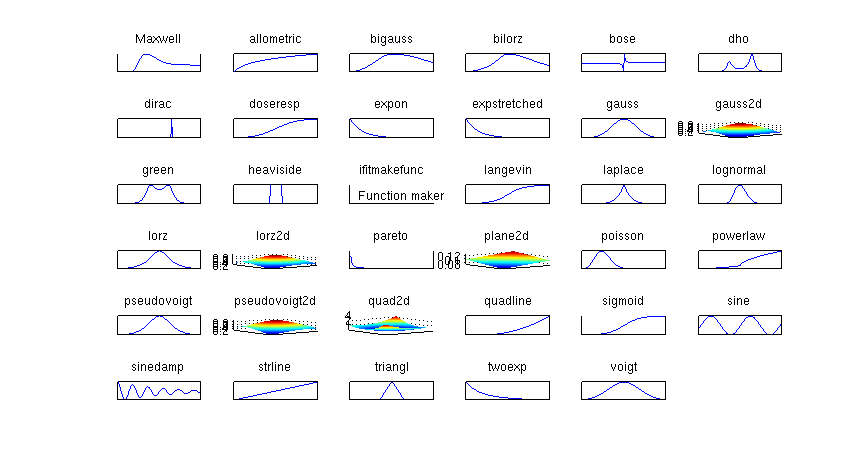
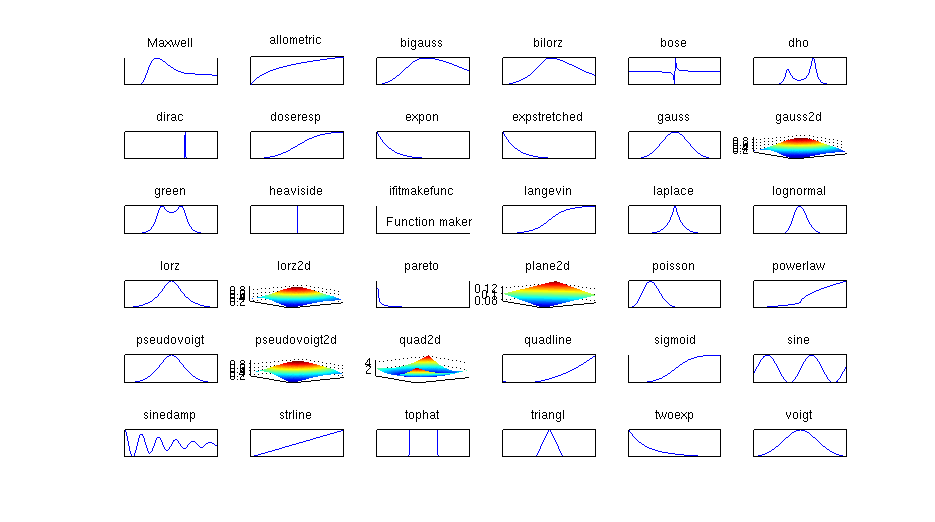
McStas: monitor/criteria display also shows current parameter settings (fminplot)

diff --git a/Docs/iFuncs.html b/Docs/iFuncs.html
@@ -16,6 +16,7 @@
 
 
 
+
   <meta http-equiv="content-type" content="text/html; charset=ISO-8859-1">
   <title>iFit: iFuncs model functions</title>
 </head><body>
@@ -185,10 +186,11 @@ Background</td>
       <td style="vertical-align: top;"><span style="font-weight: bold;">heaviside</span><br>
       </td>
       <td style="vertical-align: top;">Heaviside (gap)<br>
+      <span style="font-style: italic;">The GapSide indicates raising (+) or falling (-) gap.</span><br>
       </td>
       <td style="vertical-align: top; color: rgb(51, 204, 0);">1D<br>
       </td>
-      <td style="vertical-align: top;">Amplitude Centre FulfWidth Background<br>
+      <td style="vertical-align: top;">Amplitude Centre GapSide Background<br>
       </td>
     </tr>
     <tr>
@@ -319,6 +321,15 @@ Background<br>
 Background</td>
     </tr>
     <tr>
+      <td style="vertical-align: top;"><span style="font-weight: bold;">tophat</span><br>
+      </td>
+      <td style="vertical-align: top;">Top-Hat rectangular function<br>
+      </td>
+      <td style="vertical-align: top; color: rgb(51, 204, 0);">1D</td>
+      <td style="vertical-align: top;">Amplitude Centre HalfWidth
+Background</td>
+    </tr>
+<tr>
       <td style="vertical-align: top;"><span style="font-weight: bold;">twoexp</span><br>
       </td>
       <td style="vertical-align: top;">Two exponential decay functions<br>
@@ -490,7 +501,7 @@ function also exists in <span style="font-style: italic;">iFit/iFuncs/private/te
 <div style="text-align: center;">
 <div style="text-align: center;"><span style="font-style: italic;">E.
 Farhi - iFit/fit models - </span><span style="font-style: italic;">
-$Date: 2012-02-10 16:10:26 $ $Revision: 1.21 $
+$Date: 2012-02-13 20:13:12 $ $Revision: 1.22 $
 </span><span style="font-style: italic;"> </span>-
 back to <a href="index.html">Main
 iFit Page </a><a href="http://www.ill.eu/"><img title="ILL, Grenoble, France &lt;www.ill.eu&gt;" src="images/ILL-web-jpeg.jpg" alt="ILL, Grenoble, France &lt;www.ill.eu&gt;" style="border: 0px solid ; width: 53px; height: 50px;" align="right"></a>

diff --git a/iFiles/class2str.m b/iFiles/class2str.m
@@ -1,23 +1,24 @@
-function str=class2str(this, data, flat)
+function str=class2str(this, data, options)
 % class2str(this,data) Create a string [ 'this = data;' ]
 %   This function creates a string containing Matlab code describing a variable.
-%   The syntax class2str(this, data, flat) creates a flat text with commented 
-%   data blocks, which is not an m-file, but rather a Linux-style config file.
+%   class2str(this, data, 'flat') creates a flat text with commented 
+%     data blocks, which is not an m-file, but rather a Linux-style config file.
+%   class2str(this, data, 'no comments') removes comments from the output file
 %
 % input arguments:
 %   this: string containg the name of the object to describe
 %   data: any data set (struct, array, cell, iData, char)
-%   flat: optinal argument to generate a flat file
+%   options: optinal argument which may contain 'flat' and 'no comments'
 %
 % output variables:
 %   str: string which contains a function code to generate the data.
 %
-% example: str=class2str('this', struct('a',1,'b','a comment','c',{});
+% example: str=class2str('this', struct('a',1,'b','a string comment','c',{});
 %          
 % See also: mat2str, num2str, eval, sprintf
 %
 % Part of: iFiles utilities (ILL library)
-% Author:  E. Farhi <farhi@ill.fr>. $Revision: 1.6 $
+% Author:  E. Farhi <farhi@ill.fr>. $Revision: 1.7 $
 
 if nargin == 1
   data = this;
@@ -25,54 +26,60 @@ if nargin == 1
   else this = inputname(1); end
 end
 
-if nargin == 3,
-  str = class2str_flat(this, data);
+if nargin < 3, options=''; end
+
+if strfind(options, 'flat')
+  str = class2str_flat(this, data, options);
 else
-  str = class2str_m(this, data);
+  str = class2str_m(this, data, options);
 end
 
 return
 
 % ------------------------------------------------------------------------------
-function str = class2str_m(this, data)
+function str = class2str_m(this, data, options)
 % function to create an m-file string
 
+nocomment = strfind(options, 'no comment');
+str       = '';
 NL = sprintf('\n');
+
 if ischar(data)
   str = [ this ' = ''' class2str_validstr(data) ''';' NL ];
 elseif (isa(data, 'iData') | isstruct(data)) & length(data) > 1
-  str = [ '% ' this ' (' class(data) ') array size ' mat2str(size(data)) NL ];
+  if ~nocomment, str = [ '% ' this ' (' class(data) ') array size ' mat2str(size(data)) NL ]; end
   for index=1:length(data(:))
-    str = [ str class2str([ this '(' num2str(index) ')' ], data(index)) NL ];
+    str = [ str class2str([ this '(' num2str(index) ')' ], data(index), options) ];
   end
-  str = [ str this ' = reshape(' this ', [' num2str(size(data)) ']);' NL ...
-          '% end of ' class(data) ' array ' this NL ];
+  str = [ str this ' = reshape(' this ', [' num2str(size(data)) ']);' NL ];
+  if ~nocomment, str = [ str  '% end of ' class(data) ' array ' this NL ]; end
 elseif isa(data, 'iData')
-  str = [ '% ' this ' (' class(data) ') size ' num2str(size(data)) NL ];
-  str = [ str class2str(this, struct(data)) ];
-  str = [ str NL '% handling of iData objects -------------------------------------' NL 'if ~exist(''iData''), return; end' NL ];
+  if ~nocomment, str = [ '% ' this ' (' class(data) ') size ' num2str(size(data)) NL ]; end
+  str = [ str class2str(this, struct(data), options) ];
+  if ~nocomment, str = [ str NL '% handling of iData objects -------------------------------------' NL ]; end
+  str = [ str 'if ~exist(''iData''), return; end' NL ];
   str = [ str this '_s=' this '; ' this ' = rmfield(' this ',''Alias''); ' this ' = iData(' this ');' NL ...
          'setalias(' this ', ' this '_s.Alias.Names, ' this '_s.Alias.Values, ' this '_s.Alias.Labels);' NL ... 
          'if ~isempty(' this '_s.Alias.Axis)' NL ...
          '  setaxis('  this ', mat2str(1:length(' this '_s.Alias.Axis)), ' this '_s.Alias.Axis);' NL ...
-         'end' NL ...
-         '% end of iData ' this NL ];
+         'end' NL ];
+  if ~nocomment, str = [ str '% end of iData ' this NL ]; end
 elseif isnumeric(data) | islogical(data)
-  str = [ '% ' this ' numeric (' class(data) ') size ' num2str(size(data)) NL ...
-          this ' = ' mat2str(data(:)) ';' NL ];
-  if prod(size(data)) > 1
+  if ~nocomment, str = [ '% ' this ' numeric (' class(data) ') size ' num2str(size(data)) NL ]; end
+  str = [ str this ' = ' mat2str(data(:)) ';' NL ];
+  if numel(data) > 1
     str = [ str this ' = reshape(' this ', [' num2str(size(data)) ']);' NL ];
   end
 elseif isstruct(data)
   f = fieldnames(data);
-  str = [ '% ' this ' (' class(data) ') length ' num2str(length(f)) NL ];
+  if ~nocomment, str = [ '% ' this ' (' class(data) ') length ' num2str(length(f)) NL ]; end
   for index=1:length(f)
-    str = [ str class2str([ this '.' f{index} ], getfield(data, f{index})) ];
+    str = [ str class2str([ this '.' f{index} ], getfield(data, f{index}), options) ];
   end
-  str = [ str '% end of struct ' this NL ];
+  if ~nocomment, str = [ str '% end of struct ' this NL ]; end
 elseif iscellstr(data)
-  str = [ '% ' this ' (' class(data) 'str) size ' mat2str(size(data)) NL ...
-          this ' = { ...' NL ];
+  if ~nocomment, str = [ '% ' this ' (' class(data) 'str) size ' mat2str(size(data)) NL ]; end
+  str = [ str this ' = { ...' NL ];
   for index=1:length(data(:))
     str = [ str '  ''' class2str_validstr(data{index}) '''' ];
     if index < length(data(:)), str = [ str ', ' ]; end
@@ -82,50 +89,51 @@ elseif iscellstr(data)
   if prod(size(data)) > 1
     str = [ str this ' = reshape(' this ', [' mat2str(size(data)) ']);' NL ];
   end
-  str = [ str '% end of cellstr ' this NL ];
+  if ~nocomment, str = [ str '% end of cellstr ' this NL ]; end
 elseif iscell(data)
-  str = [ '% ' this class(data) ' size ' mat2str(size(data)) NL ...
-          this ' = cell(' mat2str(size(data)) ');' NL ];
+  if ~nocomment, str = [ '% ' this class(data) ' size ' mat2str(size(data)) NL ]; end
+  str = [ str this ' = cell(' mat2str(size(data)) ');' NL ];
   for index=1:length(data(:))
-    str = [ str class2str([ this '{' num2str(index) '}' ], data{index}) NL ];
+    str = [ str class2str([ this '{' num2str(index) '}' ], data{index}, options) ];
   end
   if prod(size(data)) > 1
     str = [ str this ' = reshape(' this ', [' mat2str(size(data)) ']);' NL ];
   end
-  str = [ str '% end of cell ' this NL ];
+  if ~nocomment, str = [ str '% end of cell ' this NL ]; end
 elseif isa(data, 'function_handle')
-  str = [ '% ' this ' function (' class(data) ')' NL ...
-          this ' = ' func2str(data(:)) ';' NL ];
+  if ~nocomment, str = [ '% ' this ' function (' class(data) ')' NL ]; end
+  str = [ str this ' = ' func2str(data(:)) ';' NL ];
 else
   try
     % other class
-    str = [ '% ' this ' (' class(data) ') size ' num2str(size(data)) NL ];
+    if ~nocomment, str = [ '% ' this ' (' class(data) ') size ' num2str(size(data)) NL ]; end
     str = [ str class2str(this, struct(data)) ];
-    str = [ str '% end of object ' this NL ];
+    if ~nocomment, str = [ str '% end of object ' this NL ]; end
   catch
     warning([ mfilename ': can not save ' this ' ' class(data) '. Skipping.' ]);
   end
 end
 
 % ------------------------------------------------------------------------------
-function str = class2str_flat(this, data)
-% function to create a flat file string
+function str = class2str_flat(this, data, options)
+% function to create a flat file string (no matlab code)
 
-str = '';
+str       = '';
 NL  = sprintf('\n');
+
 if isempty(data), return; end
 if ischar(data)
   str = [ '# ' this ': ' class2str_validstr(data) NL ];
 elseif (isa(data, 'iData') | isstruct(data)) & length(data) > 1
   for index=1:length(data(:))
-    str = [ str class2str([ this '(' num2str(index) ')' ], data(index), 'flat') NL ];
+    str = [ str class2str([ this '(' num2str(index) ')' ], data(index), options) NL ];
   end
 elseif isstruct(data)
   f = fieldnames(data);
   %str = [ '# ' class(data) ' length ' num2str(length(f)) ': ' this NL ];
   str = '';
   for index=1:length(f)
-    str = [ str class2str([ this ' ' f{index} ], getfield(data, f{index}), 'flat') ];
+    str = [ str class2str([ this ' ' f{index} ], getfield(data, f{index}), options) ];
   end
 elseif iscellstr(data)
   % str = [ '# ' class(data) 'str size ' mat2str(size(data)) ': ' this NL ];
@@ -137,7 +145,7 @@ elseif iscell(data)
   % str = [ '# ' class(data) ' size ' mat2str(size(data)) ': ' this NL ];
   str = '';
   for index=1:length(data(:))
-    str = [ str class2str([ this '{' num2str(index) '}' ], data{index}, 'flat') NL ];
+    str = [ str class2str([ this '{' num2str(index) '}' ], data{index}, options) NL ];
   end
 elseif isa(data, 'function_handle')
   str = [ '# ' this ' function: ' func2str(data(:)) NL ];
@@ -152,7 +160,7 @@ else
   try
     % other class
     str = [ '# ' class(data) ' size ' num2str(size(data)) ': ' this NL ];
-    str = [ str class2str(this, struct(data),'flat') ];
+    str = [ str class2str(this, struct(data), options) ];
   catch
     warning([ mfilename ': can not save ' this ' ' class(data) '. Skipping.' ]);
   end
@@ -161,8 +169,9 @@ end
 % ------------------------------------------------------------------------------
 
 function str=class2str_validstr(str)
-% validate a string as a single line
-str=strrep(str(:)', sprintf('\n'), ';');
-index = find(str < 32 | str > 127);
-str(index) = ' ';
-str=strrep(str, '''', '''''');
+  % validate a string as a single line
+  str=strrep(str(:)', sprintf('\n'), ';');
+  index = find(str < 32 | str > 127);
+  str(index) = ' ';
+  str=strrep(str, '''', '''''');
+

diff --git a/GUI/mcstas.m b/GUI/mcstas.m
@@ -59,7 +59,7 @@ function [pars,fval,exitflag,output] = mcstas(instrument, parameters, options)
 %   [monitors_integral,scan]=mcstas('templateDIFF' ,struct('RV',[0.5 1 1.5]))
 %   plot(monitors_integral)
 %
-% Version: $Revision: 1.20 $
+% Version: $Revision: 1.21 $
 % See also: fminsearch, fminimfil, optimset, http://www.mcstas.org
 
 % inline: mcstas_criteria
@@ -69,7 +69,7 @@ function [pars,fval,exitflag,output] = mcstas(instrument, parameters, options)
   end
 
   if ~exist('iData')
-    error([ mfilename ' requires iFit/iData. Get it at <ifit.mccode.org>. Install it with addpath(genpath(''location/to/iFit''))' ] );
+    error([ mfilename ' requires iFit/iData. Get it at <ifit.mccode.org>. Install it with addpath(genpath(''/path/to/iFit''))' ] );
   end
   
 % PARSE INPUT ARGUMENTS ========================================================
@@ -81,7 +81,7 @@ function [pars,fval,exitflag,output] = mcstas(instrument, parameters, options)
   options.instrument     = instrument;
   % define simulation or optimization mode (if not set before)
   if ~isfield(options,'mode')
-    if isfield(options, 'optimizer') | isfield(options,'TolFun') | ...
+    if isfield(options, 'optimizer') || isfield(options,'TolFun') | ...
        isfield(options,'TolX') | isfield(options,'type') | ...
        isfield(options,'MaxFunEvals') | isfield(options,'MaxIter')
       options.mode      = 'optimize'; 
@@ -199,7 +199,7 @@ function [pars,fval,exitflag,output] = mcstas(instrument, parameters, options)
     options.monitors = cellstr(options.monitors);
   end
 
-  if strcmp(options.mode,'optimize')
+  if strcmp(options.mode,'optimize') % ================================ OPTIMIZE
     % optimize simulation parameters
     if ~isfield(options,'type'),      options.type      = 'maximize'; end
     if ~isfield(options,'optimizer'), options.optimizer = @fminpso; end
@@ -230,13 +230,13 @@ function [pars,fval,exitflag,output] = mcstas(instrument, parameters, options)
       [dummy,fval] = mcstas_criteria(pars, options);
       output.command=get(fval(1), 'Execute');
     end
+    % re-create a structure of parameters
     pars_struct = [];
     for index=1:length(pars)
       pars_struct.(variable_names{index}) = pars(index);
     end
     pars = pars_struct;
-  else
-    % single simulation/scan
+  else % ================================================ single simulation/scan
     try
       [p, fval] = mcstas_criteria(pars, options);
     catch
@@ -548,6 +548,17 @@ function [criteria, sim, ind] = mcstas_criteria(pars, options, criteria, sim, in
     if gcf ~= h, figure(h); end
     hold off
     subplot(sim,'view2 axis tight');
+    ud.Parameters = get(sim(1),'Parameters');
+    ud.Execute=cmd;
+    ud.pars   =pars;
+    ud.Options=options;
+    set(h, 'UserData', ud);
+    xl=xlim; yl=ylim;
+    f = fieldnames(ud.Parameters);
+    c = struct2cell(ud.Parameters);
+    if length(f) > 20, f=f(1:20); c=c(1:20); end
+    s = class2str(cell2struct(c(:),f(:),1),'no comment');
+    text(xl(1), mean(yl), s,'Interpreter','none');
     hold off
   end
   criteria = zeros(length(sim),1);

diff --git a/@iData/fits.m b/@iData/fits.m
@@ -84,7 +84,7 @@ function [pars_out,criteria,message,output] = fits(a, model, pars, options, cons
 %         o=fminpowell('defaults'); o.OutputFcn='fminplot'; 
 %         [p,c,m,o]=fits(a,'gauss',[1 2 3 4],o); b=o.modelValue
 %
-% Version: $Revision: 1.40 $
+% Version: $Revision: 1.41 $
 % See also iData, fminsearch, optimset, optimget, ifitmakefunc
 
 % private functions: eval_criteria, least_square
@@ -227,7 +227,9 @@ if ischar(model)
 end
 
 if isempty(model)
-  iData_private_error(mfilename,[ 'The model argument is empty. Should be a function name, expression or function handle.' ]);
+  iData_private_error(mfilename,[ 'The model argument is empty. Should be a function name, expression or function handle.' ...
+    sprintf('\n') 'Type "fits(iData)" to get a list of available predefined models.' ...
+    sprintf('\n') 'or use "ifitmakefunc" to create one.' ]);
 end
 
 % handle options
